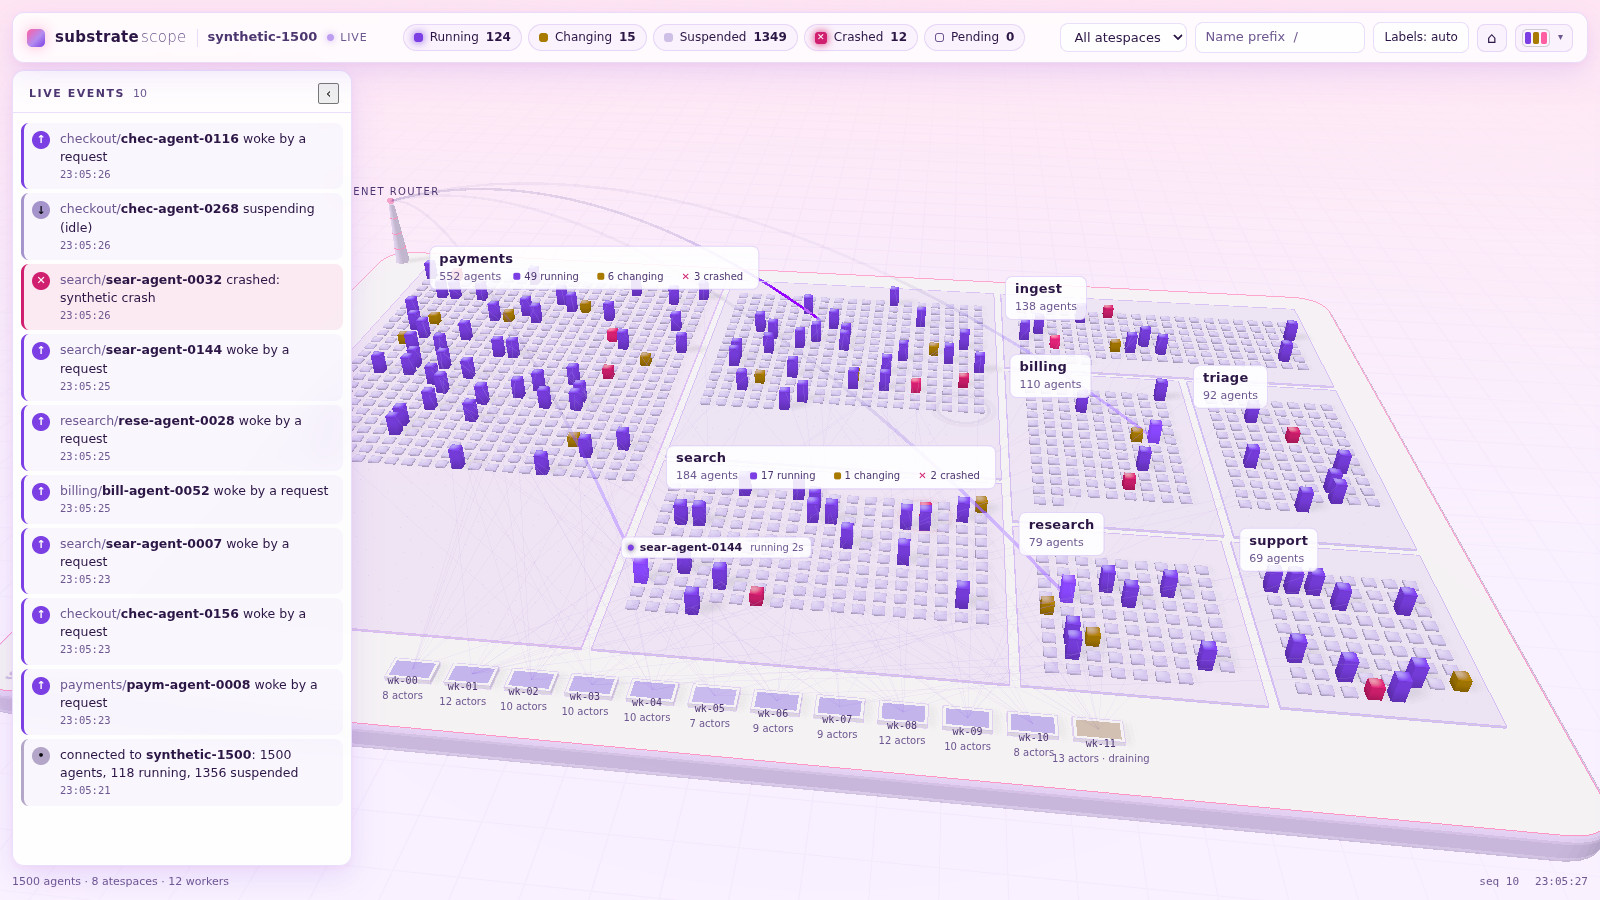
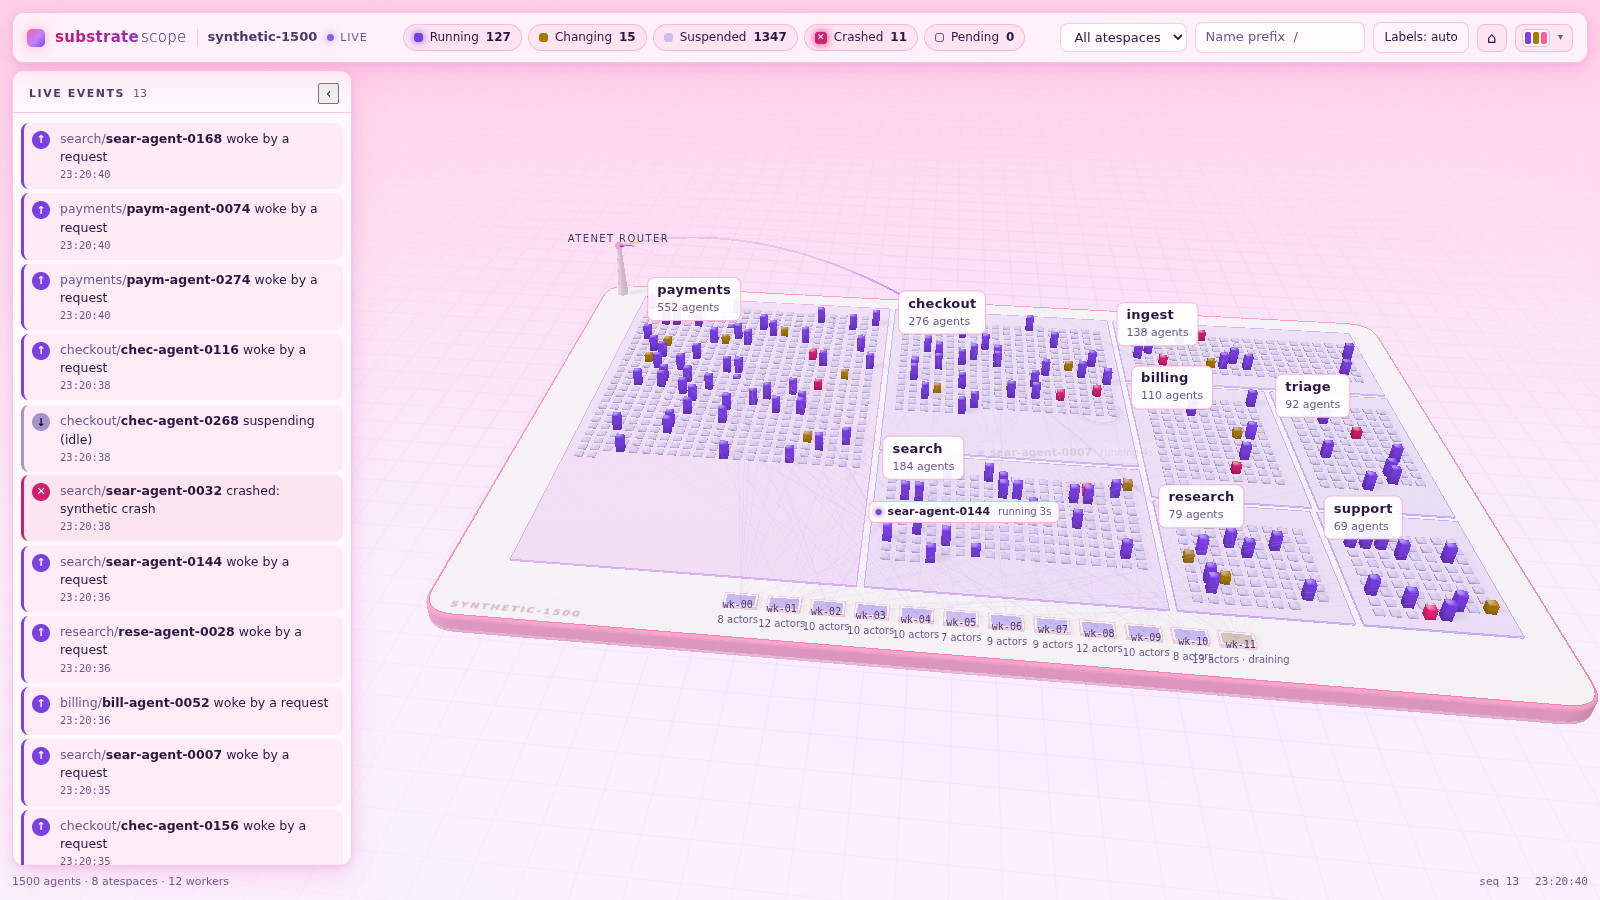
Add Google Light and Google Dark; quieter links; keep the router clear of the panel
Two themes from mast-web's Pantheon pair: Material greys for the chrome, the
validated Google state colors, and the Gemini Aurora only on the wordmark,
the brand mark, the island edge and the selection. Google Dark shows elevation
with lighter greys instead of shadows and keeps its glow subtle; Google Light
has no bloom. A new wordmark token lets a theme paint the title with a
gradient.

Worker link lines in the dark themes were bright and busy with a dozen
workers; they are now much fainter. Cotton Candy gets pinker surfaces and
chrome: a pink island edge and side, a stronger pink sky, pink buttons and
borders, and a gradient wordmark.

Fitting the camera now leaves room for the events panel: it pulls back to fit
the free width and shifts the island right, so the router tower and its label
are no longer hidden behind the panel.

diff --git a/web/js/themes.js b/web/js/themes.js
@@ -45,7 +45,7 @@ export const TOKENS = [
   'ui.primaryBg', 'ui.primaryBorder', 'ui.primaryText',
   'ui.warnBg', 'ui.warnBorder',
   'ui.labelBg', 'ui.labelBorder', 'ui.labelShadow', 'ui.selBorder',
-  'ui.codeBg', 'ui.shadow', 'ui.logo',
+  'ui.codeBg', 'ui.shadow', 'ui.logo', 'ui.wordmark',
   'ui.evAdded', 'ui.evWoke', 'ui.evSuspended', 'ui.evCrashed', 'ui.evTask', 'ui.evRemoved', 'ui.evWorker', 'ui.evMeta',
 ];
 
@@ -65,7 +65,7 @@ export const THEMES = [
     district: { fill: '#1c1033', fillJitter: 0.06, edge: '#b48cff', edgeAlpha: 0.55, dots: '#4f3a7d', label: '#f5ebff' },
     worker: { pad: '#2a1849', padEdge: '#c49cff', idle: '#3a2a5c', active: '#9a6cf2', draining: '#b09000' },
     router: { shaft: '#2a1748', emissive: '#1d0a36', band: '#ff7ac8', beacon: '#ffb3e6' },
-    links: { color: '#ff9ad6', alpha: 0.24 },
+    links: { color: '#c873b0', alpha: 0.1 },
     states: { running: '#9a6cf2', changing: '#b09000', suspended: '#4b3f6b', crashed: '#e8306b', pending: '#ab98d0' },
     effects: { wake: '#c9a6ff', suspend: '#8a78c0', crash: '#e8306b', beam: '#d7c2ff', removed: '#7f6fa6' },
     marker: { select: '#ffffff', hover: '#ffb3e6' },
@@ -87,6 +87,7 @@ export const THEMES = [
       warnBg: 'rgba(176, 144, 0, 0.14)', warnBorder: 'rgba(214, 180, 40, 0.55)',
       labelBg: 'rgba(20, 9, 38, 0.72)', labelBorder: 'rgba(200, 160, 255, 0.2)', labelShadow: '0 1px 3px #000', selBorder: '#ff7ac8',
       codeBg: 'rgba(255, 255, 255, 0.07)', shadow: '0 10px 40px rgba(0, 0, 0, 0.45), 0 0 0 1px rgba(255, 122, 200, 0.05)',
+      wordmark: 'linear-gradient(#f5ebff, #f5ebff)',
       logo: 'linear-gradient(135deg, #ff7ac8, #9a6cf2 60%, #5b3fd0)',
       evAdded: '#ff9ad6', evWoke: '#9a6cf2', evSuspended: '#8a7bb5', evCrashed: '#e8306b', evTask: '#b09000',
       evRemoved: '#6f6390', evWorker: '#c49cff', evMeta: '#7e6ca6',
@@ -104,7 +105,7 @@ export const THEMES = [
     district: { fill: '#0d1d35', fillJitter: 0.08, edge: '#3d9be0', edgeAlpha: 0.5, dots: '#21507d', label: '#e4f4ff' },
     worker: { pad: '#132a4a', padEdge: '#3fb2e8', idle: '#1b3558', active: '#0fa395', draining: '#8f7bff' },
     router: { shaft: '#14284a', emissive: '#08223a', band: '#2ee6d6', beacon: '#a6fff6' },
-    links: { color: '#2ee6d6', alpha: 0.22 },
+    links: { color: '#2bb8ad', alpha: 0.11 },
     states: { running: '#0fa395', changing: '#8f7bff', suspended: '#2c3e63', crashed: '#ec3d5a', pending: '#8ca3c4' },
     effects: { wake: '#5ff2e6', suspend: '#5f7fbf', crash: '#ec3d5a', beam: '#8ff7ee', removed: '#5d6c8c' },
     marker: { select: '#ffffff', hover: '#9ff7ef' },
@@ -126,6 +127,7 @@ export const THEMES = [
       warnBg: 'rgba(143, 123, 255, 0.12)', warnBorder: 'rgba(143, 123, 255, 0.5)',
       labelBg: 'rgba(5, 12, 24, 0.7)', labelBorder: 'rgba(110, 180, 235, 0.18)', labelShadow: '0 1px 3px #000', selBorder: '#2ee6d6',
       codeBg: 'rgba(255, 255, 255, 0.06)', shadow: '0 10px 40px rgba(0, 0, 0, 0.45)',
+      wordmark: 'linear-gradient(#e4f2ff, #e4f2ff)',
       logo: 'linear-gradient(135deg, #2ee6d6, #3d9be0 60%, #8f7bff)',
       evAdded: '#7fe8ff', evWoke: '#0fa395', evSuspended: '#6f86b8', evCrashed: '#ec3d5a', evTask: '#8f7bff',
       evRemoved: '#5d6c8c', evWorker: '#2ee6d6', evMeta: '#5f7399',
@@ -143,7 +145,7 @@ export const THEMES = [
     district: { fill: '#1d1d23', fillJitter: 0, edge: '#4a4a56', edgeAlpha: 0.9, dots: '#33333c', label: '#f5f5f7' },
     worker: { pad: '#1f1f25', padEdge: '#c6ff3d', idle: '#2a2a32', active: '#6aa61a', draining: '#2f95c8' },
     router: { shaft: '#222228', emissive: '#0c0c0f', band: '#c6ff3d', beacon: '#e6ffa8' },
-    links: { color: '#c6ff3d', alpha: 0.16 },
+    links: { color: '#6f9a1f', alpha: 0.07 },
     states: { running: '#6aa61a', changing: '#2f95c8', suspended: '#3a3a44', crashed: '#e83a8a', pending: '#9c9ca8' },
     effects: { wake: '#b6f25a', suspend: '#70707e', crash: '#e83a8a', beam: '#d8ff8a', removed: '#5a5a66' },
     marker: { select: '#ffffff', hover: '#e6ffa8' },
@@ -165,6 +167,7 @@ export const THEMES = [
       warnBg: 'rgba(47, 149, 200, 0.12)', warnBorder: 'rgba(47, 149, 200, 0.55)',
       labelBg: 'rgba(12, 12, 15, 0.82)', labelBorder: 'rgba(255, 255, 255, 0.14)', labelShadow: 'none', selBorder: '#c6ff3d',
       codeBg: 'rgba(255, 255, 255, 0.07)', shadow: '0 12px 40px rgba(0, 0, 0, 0.6)',
+      wordmark: 'linear-gradient(#f5f5f7, #f5f5f7)',
       logo: 'linear-gradient(135deg, #c6ff3d 50%, #0c0c0f 50%)',
       evAdded: '#c6ff3d', evWoke: '#6aa61a', evSuspended: '#7a7a88', evCrashed: '#e83a8a', evTask: '#2f95c8',
       evRemoved: '#5a5a66', evWorker: '#b6f25a', evMeta: '#6c6c78',
@@ -175,14 +178,14 @@ export const THEMES = [
     name: 'Cotton Candy',
     mode: 'light',
     scene: {
-      background: '#fbf4ff', backgroundTop: '#ffe6f3', fog: '#fbf4ff', fogDensity: 0.0035,
-      grid: '#c9a2ec', gridAlpha: 0.45, sea: '#f4e8ff', seaAlpha: 0.7, stars: null, starAlpha: 0,
+      background: '#fbf4ff', backgroundTop: '#ffcfe8', fog: '#fbf4ff', fogDensity: 0.0035,
+      grid: '#e08ac8', gridAlpha: 0.5, sea: '#f6e2ff', seaAlpha: 0.8, stars: null, starAlpha: 0,
     },
-    island: { fill: '#ffffff', side: '#ead9fb', edge: '#ff8cc0', edgeAlpha: 1, label: '#b896dc' },
-    district: { fill: '#f7effe', fillJitter: 0.05, edge: '#d4b6f2', edgeAlpha: 1, dots: '#dcc8f2', label: '#3a1f5e' },
-    worker: { pad: '#ffffff', padEdge: '#cfb0f0', idle: '#efe4fb', active: '#7b3fe4', draining: '#a87a00' },
-    router: { shaft: '#f1e5ff', emissive: '#000000', band: '#ff5fa2', beacon: '#ff8cc0' },
-    links: { color: '#a77ce6', alpha: 0.35 },
+    island: { fill: '#ffffff', side: '#ff9ccb', edge: '#ff5fa2', edgeAlpha: 1, label: '#d77fb8' },
+    district: { fill: '#f4e6ff', fillJitter: 0.1, edge: '#c79af5', edgeAlpha: 1, dots: '#dcbff5', label: '#3a1f5e' },
+    worker: { pad: '#ffffff', padEdge: '#ff8cc0', idle: '#fbe6f3', active: '#7b3fe4', draining: '#a87a00' },
+    router: { shaft: '#ffd6ea', emissive: '#000000', band: '#ff5fa2', beacon: '#ff5fa2' },
+    links: { color: '#b86ef0', alpha: 0.35 },
     states: { running: '#7b3fe4', changing: '#a87a00', suspended: '#cdbfe6', crashed: '#d11f6f', pending: '#6c5790' },
     effects: { wake: '#7b3fe4', suspend: '#a593cc', crash: '#d11f6f', beam: '#b38cf0', removed: '#b3a6c8' },
     marker: { select: '#2b1645', hover: '#ff5fa2' },
@@ -195,16 +198,17 @@ export const THEMES = [
       sun: '#fff6fb', sunIntensity: 1.5, shadow: true, shadowAlpha: 0.5,
     },
     ui: {
-      glass: 'rgba(255, 255, 255, 0.78)', glassStrong: 'rgba(255, 255, 255, 0.93)', line: 'rgba(123, 63, 228, 0.16)',
+      glass: 'rgba(255, 246, 251, 0.86)', glassStrong: 'rgba(255, 250, 253, 0.95)', line: 'rgba(255, 95, 162, 0.32)',
       text: '#2b1645', text2: '#4c3670', muted: '#6c5790',
-      accent: '#ff5fa2', accentText: '#3a0820', chipBg: 'rgba(123, 63, 228, 0.04)', chipHover: 'rgba(255, 95, 162, 0.12)',
+      accent: '#ff5fa2', accentText: '#3a0820', chipBg: 'rgba(255, 95, 162, 0.08)', chipHover: 'rgba(255, 95, 162, 0.18)',
       inputBg: 'rgba(255, 255, 255, 0.85)',
-      btnBg: 'rgba(123, 63, 228, 0.07)', btnBorder: 'rgba(123, 63, 228, 0.35)', btnText: '#3d1f73', btnHover: 'rgba(123, 63, 228, 0.14)',
+      btnBg: 'rgba(255, 95, 162, 0.12)', btnBorder: 'rgba(255, 95, 162, 0.65)', btnText: '#7a1048', btnHover: 'rgba(255, 95, 162, 0.22)',
       primaryBg: '#ff5fa2', primaryBorder: '#f04d92', primaryText: '#3a0820',
       warnBg: 'rgba(168, 122, 0, 0.1)', warnBorder: 'rgba(168, 122, 0, 0.45)',
-      labelBg: 'rgba(255, 255, 255, 0.88)', labelBorder: 'rgba(123, 63, 228, 0.2)', labelShadow: 'none', selBorder: '#ff5fa2',
-      codeBg: 'rgba(123, 63, 228, 0.08)', shadow: '0 10px 30px rgba(123, 63, 228, 0.14), 0 2px 6px rgba(255, 95, 162, 0.08)',
-      logo: 'linear-gradient(135deg, #ff5fa2, #b38cf0 55%, #7b3fe4)',
+      labelBg: 'rgba(255, 255, 255, 0.92)', labelBorder: 'rgba(255, 95, 162, 0.45)', labelShadow: 'none', selBorder: '#ff5fa2',
+      codeBg: 'rgba(123, 63, 228, 0.08)', shadow: '0 10px 30px rgba(255, 95, 162, 0.22), 0 2px 8px rgba(123, 63, 228, 0.14)',
+      wordmark: 'linear-gradient(90deg, #c2187a, #7b3fe4)',
+      logo: 'linear-gradient(135deg, #ff5fa2, #c084fc 55%, #7b3fe4)',
       evAdded: '#ff5fa2', evWoke: '#7b3fe4', evSuspended: '#a593cc', evCrashed: '#d11f6f', evTask: '#a87a00',
       evRemoved: '#b3a6c8', evWorker: '#9b6cf0', evMeta: '#b3a6c8',
     },
@@ -243,6 +247,7 @@ export const THEMES = [
       warnBg: 'rgba(58, 91, 217, 0.08)', warnBorder: 'rgba(58, 91, 217, 0.5)',
       labelBg: 'rgba(251, 248, 241, 0.92)', labelBorder: 'rgba(31, 29, 26, 0.35)', labelShadow: 'none', selBorder: '#ff48b0',
       codeBg: 'rgba(58, 91, 217, 0.08)', shadow: '4px 4px 0 rgba(255, 72, 176, 0.35)',
+      wordmark: 'linear-gradient(#1f1d1a, #1f1d1a)',
       logo: 'linear-gradient(135deg, #ff48b0 50%, #3a5bd9 50%)',
       evAdded: '#ff48b0', evWoke: '#009a93', evSuspended: '#a39a8a', evCrashed: '#e5392b', evTask: '#3a5bd9',
       evRemoved: '#b0a796', evWorker: '#009a93', evMeta: '#b0a796',
@@ -282,9 +287,92 @@ export const THEMES = [
       warnBg: 'rgba(154, 122, 0, 0.1)', warnBorder: 'rgba(154, 122, 0, 0.45)',
       labelBg: 'rgba(255, 255, 255, 0.9)', labelBorder: 'rgba(15, 35, 64, 0.16)', labelShadow: 'none', selBorder: '#7c3aed',
       codeBg: 'rgba(0, 98, 230, 0.07)', shadow: '0 10px 30px rgba(15, 35, 64, 0.12), 0 1px 3px rgba(15, 35, 64, 0.08)',
+      wordmark: 'linear-gradient(#0f2340, #0f2340)',
       logo: 'linear-gradient(135deg, #7fb0f0, #0062e6 55%, #7c3aed)',
       evAdded: '#7c3aed', evWoke: '#0062e6', evSuspended: '#8ea3c2', evCrashed: '#d11f6f', evTask: '#9a7a00',
       evRemoved: '#a6b4c8', evWorker: '#4a86e0', evMeta: '#a6b4c8',
+    },
+  },
+  {
+    id: 'google-light',
+    name: 'Google Light',
+    mode: 'light',
+    scene: {
+      background: '#f8f9fa', backgroundTop: '#ffffff', fog: '#f8f9fa', fogDensity: 0.0035,
+      grid: '#bdc1c6', gridAlpha: 0.55, sea: '#f1f3f4', seaAlpha: 0.8, stars: null, starAlpha: 0,
+    },
+    island: { fill: '#ffffff', side: '#dadce0', edge: '#a770ef', edgeAlpha: 0.6, label: '#9aa0a6' },
+    district: { fill: '#f1f3f4', fillJitter: 0, edge: '#dadce0', edgeAlpha: 1, dots: '#dadce0', label: '#202124' },
+    worker: { pad: '#ffffff', padEdge: '#bdc1c6', idle: '#f1f3f4', active: '#188038', draining: '#9334e6' },
+    router: { shaft: '#e8eaed', emissive: '#000000', band: '#217bfe', beacon: '#a770ef' },
+    links: { color: '#1a73e8', alpha: 0.2 },
+    states: { running: '#188038', changing: '#9334e6', suspended: '#bdc1c6', crashed: '#d93025', pending: '#5f6368' },
+    effects: { wake: '#188038', suspend: '#9aa0a6', crash: '#d93025', beam: '#1a73e8', removed: '#bdc1c6' },
+    marker: { select: '#217bfe', hover: '#a770ef' },
+    glow: { additive: false, emissive: 0.05, ambient: 0.7, diffuse: 0.32, hemi: 0.06, gloss: 0.06, ink: 0.18, occlusion: 0.18 },
+    bloom: { strength: 0, radius: 0.4, threshold: 0.95 },
+    light: {
+      toneMapping: 'none', exposure: 1.0,
+      ambient: '#ffffff', ambientIntensity: 0.6,
+      hemiSky: '#ffffff', hemiGround: '#e8eaed', hemiIntensity: 1.25,
+      sun: '#ffffff', sunIntensity: 1.4, shadow: true, shadowAlpha: 0.35,
+    },
+    // Google Material greys; the Gemini Aurora only on the brand and selection.
+    ui: {
+      glass: 'rgba(255, 255, 255, 0.95)', glassStrong: 'rgba(255, 255, 255, 0.98)', line: '#dadce0',
+      text: '#202124', text2: '#3c4043', muted: '#5f6368',
+      accent: '#1a73e8', accentText: '#ffffff', chipBg: 'rgba(32, 33, 36, 0.03)', chipHover: '#e8f0fe',
+      inputBg: '#ffffff',
+      btnBg: '#ffffff', btnBorder: '#dadce0', btnText: '#1967d2', btnHover: '#e8f0fe',
+      primaryBg: '#1a73e8', primaryBorder: '#1a73e8', primaryText: '#ffffff',
+      warnBg: 'rgba(147, 52, 230, 0.06)', warnBorder: '#d7aefb',
+      labelBg: 'rgba(255, 255, 255, 0.96)', labelBorder: '#dadce0', labelShadow: 'none', selBorder: '#a770ef',
+      codeBg: '#f1f3f4', shadow: '0 1px 2px rgba(60, 64, 67, 0.3), 0 2px 6px 2px rgba(60, 64, 67, 0.15)',
+      logo: 'linear-gradient(135deg, #217bfe 0%, #078efb 33%, #a770ef 66%, #ff5e62 100%)',
+      wordmark: 'linear-gradient(90deg, #217bfe 0%, #078efb 33%, #a770ef 66%, #ff5e62 100%)',
+      evAdded: '#1a73e8', evWoke: '#188038', evSuspended: '#9aa0a6', evCrashed: '#d93025', evTask: '#9334e6',
+      evRemoved: '#bdc1c6', evWorker: '#1e8e3e', evMeta: '#bdc1c6',
+    },
+  },
+  {
+    id: 'google-dark',
+    name: 'Google Dark',
+    mode: 'dark',
+    scene: {
+      background: '#202124', backgroundTop: '#141517', fog: '#202124', fogDensity: 0.005,
+      grid: '#5f6368', gridAlpha: 0.3, sea: '#202124', seaAlpha: 0.9, stars: null, starAlpha: 0,
+    },
+    // Elevation by lighter grey, not by shadow: canvas, then paler cards.
+    island: { fill: '#2a2b2e', side: '#1b1c1e', edge: '#a770ef', edgeAlpha: 0.55, label: '#5f6368' },
+    district: { fill: '#303134', fillJitter: 0, edge: '#3c4043', edgeAlpha: 1, dots: '#3c4043', label: '#e8eaed' },
+    worker: { pad: '#303134', padEdge: '#5f6368', idle: '#2a2b2e', active: '#34a853', draining: '#af5cf7' },
+    router: { shaft: '#3c4043', emissive: '#121212', band: '#8ab4f8', beacon: '#a770ef' },
+    links: { color: '#8ab4f8', alpha: 0.1 },
+    states: { running: '#34a853', changing: '#af5cf7', suspended: '#5f6368', crashed: '#e52592', pending: '#9aa0a6' },
+    effects: { wake: '#81c995', suspend: '#9aa0a6', crash: '#e52592', beam: '#8ab4f8', removed: '#5f6368' },
+    marker: { select: '#8ab4f8', hover: '#a770ef' },
+    glow: { additive: true, emissive: 0.5, ambient: 0.16, diffuse: 0.5, hemi: 0.22, gloss: 0, ink: 0, occlusion: 0.15 },
+    bloom: { strength: 0.3, radius: 0.3, threshold: 0.75 },
+    light: {
+      toneMapping: 'neutral', exposure: 1.0,
+      ambient: '#303134', ambientIntensity: 0.45,
+      hemiSky: '#e8eaed', hemiGround: '#202124', hemiIntensity: 0.9,
+      sun: '#ffffff', sunIntensity: 1.3, shadow: false, shadowAlpha: 0,
+    },
+    ui: {
+      glass: 'rgba(42, 43, 46, 0.96)', glassStrong: 'rgba(42, 43, 46, 0.98)', line: '#3c4043',
+      text: '#e8eaed', text2: '#bdc1c6', muted: '#9aa0a6',
+      accent: '#8ab4f8', accentText: '#202124', chipBg: '#303134', chipHover: '#3c4043',
+      inputBg: '#303134',
+      btnBg: '#303134', btnBorder: '#5f6368', btnText: '#8ab4f8', btnHover: '#3c4043',
+      primaryBg: '#8ab4f8', primaryBorder: '#8ab4f8', primaryText: '#202124',
+      warnBg: 'rgba(175, 92, 247, 0.12)', warnBorder: '#af5cf7',
+      labelBg: 'rgba(48, 49, 52, 0.95)', labelBorder: '#3c4043', labelShadow: 'none', selBorder: '#a770ef',
+      codeBg: '#303134', shadow: 'none',
+      logo: 'linear-gradient(135deg, #217bfe 0%, #078efb 33%, #a770ef 66%, #ff5e62 100%)',
+      wordmark: 'linear-gradient(90deg, #217bfe 0%, #078efb 33%, #a770ef 66%, #ff5e62 100%)',
+      evAdded: '#8ab4f8', evWoke: '#34a853', evSuspended: '#9aa0a6', evCrashed: '#e52592', evTask: '#af5cf7',
+      evRemoved: '#5f6368', evWorker: '#81c995', evMeta: '#5f6368',
     },
   },
 ];

diff --git a/web/js/scene.js b/web/js/scene.js
@@ -1145,11 +1145,26 @@ export class Scene {
 
   // --------------------------------------------------------------- camera
 
+  /** Pixels on the left covered by the events panel (the fit keeps clear of them). */
+  setLeftInset(px) {
+    this.leftInset = px;
+  }
+
   fitCamera() {
+    // Frame the island in the part of the view the events panel leaves
+    // free: pull back to fit the narrower width and shift the target left
+    // so the island (and the router tower on its left edge) clears the panel.
+    const W = this.renderer.domElement.clientWidth || window.innerWidth;
+    const inset = Math.min(this.leftInset || 0, W * 0.4);
     const span = Math.max(this.island.width, this.island.depth * 1.5);
-    const dist = Math.max(26, span * 0.95);
-    this.controls.target.set(this.island.cx, 0, this.island.cz + 0.5);
-    this.camera.position.set(this.island.cx + dist * 0.1, dist * 0.56, this.island.cz + dist * 0.84);
+    const dist = Math.max(26, span * 0.95) * (W / (W - inset));
+    const viewW = 2 * dist * Math.tan(THREE.MathUtils.degToRad(this.camera.fov / 2)) * this.camera.aspect;
+    const cx = this.island.cx - (inset / 2 / W) * viewW;
+    // Aim a little toward the front edge when pulled back, so the island
+    // uses the empty sky above it.
+    const cz = this.island.cz + 0.5 + (inset ? this.island.depth * 0.05 : 0);
+    this.controls.target.set(cx, 0, cz);
+    this.camera.position.set(cx + dist * 0.1, dist * 0.56, cz + dist * 0.84);
     this.controls.update();
   }
 

diff --git a/web/js/themes.test.js b/web/js/themes.test.js
@@ -22,7 +22,7 @@ function leaves(o, prefix = '') {
 }
 
 test('every theme defines every token, and nothing else', () => {
-  assert.equal(THEMES.length, 6);
+  assert.equal(THEMES.length, 8);
   for (const t of THEMES) {
     for (const path of TOKENS) {
       const v = token(t, path);
@@ -51,6 +51,8 @@ const VALIDATED = {
   'cotton-candy': ['#fbf4ff', '#7b3fe4', '#a87a00', '#d11f6f', '#cdbfe6', '#ff5fa2'],
   'riso-paper': ['#f6f1e7', '#009a93', '#3a5bd9', '#e5392b', '#c9c0b0', '#ff48b0'],
   glacier: ['#eef4fb', '#0062e6', '#9a7a00', '#d11f6f', '#b7c6da', '#7c3aed'],
+  'google-light': ['#f8f9fa', '#188038', '#9334e6', '#d93025', '#bdc1c6', '#1a73e8'],
+  'google-dark': ['#202124', '#34a853', '#af5cf7', '#e52592', '#5f6368', '#8ab4f8'],
 };
 
 test('state colors are the validated palettes', () => {

diff --git a/web/js/main.js b/web/js/main.js
@@ -240,6 +240,14 @@ function setFeedCollapsed(on) {
   }
   if (!on) feedUnread = 0;
   updateFeedCounts();
+  scene.setLeftInset(feedInset());
+}
+
+/** Width the open events panel covers, for framing the island beside it. */
+function feedInset() {
+  if (feedCollapsed()) return 0;
+  const r = $('#feedpanel').getBoundingClientRect();
+  return r.right + 12;
 }
 
 function updateFeedCounts() {
@@ -272,6 +280,7 @@ function feed(item) {
   updateFeedCounts();
 }
 
+scene.setLeftInset(feedInset());
 $('#feed-collapse').addEventListener('click', () => setFeedCollapsed(true));
 $('#feed-tab').addEventListener('click', () => setFeedCollapsed(false));
 try {

diff --git a/web/style.css b/web/style.css
@@ -142,6 +142,11 @@ body {
   font-weight: 700;
   font-size: 15px;
   letter-spacing: 0.02em;
+  /* The wordmark: a brand gradient in some themes, the text color in others. */
+  background: var(--wordmark);
+  -webkit-background-clip: text;
+  background-clip: text;
+  color: transparent;
 }
 
 .title .thin {

diff --git a/README.md b/README.md
@@ -18,7 +18,7 @@ Rendered with three.js and GPU instancing so a cluster with thousands of agents 
 - **Live events** sit in a panel on the left (newest on top, colored by kind; click one to fly to its agent). `e` or the ‹ button collapses it to a tab; the choice is remembered.
 - **Labels** stay quiet: only the selected agent, agents that just changed state (for a few seconds) and, when you zoom in close, the agents around you. Hover an agent for a tooltip. The **Labels** button (or `l`) switches between auto, all and off.
 - **Filters** (atespace, state chips, name prefix) dim everything that doesn't match. `/` focuses the search, Enter flies to the first match, `h` shows the whole island, Esc closes the panel. `?synthetic=5000` replaces the collector with 5,000 generated agents, for looking at the scene at scale.
-- **Themes**: six themes (three dark, three light) from the picker at the right of the header, or `?theme=<id>` (`orchid-night`, `abyss-neon`, `volt-noir`, `cotton-candy`, `riso-paper`, `glacier`). The choice is remembered; `?tour=1` cycles through them every 8 seconds. Every color, light and glow value lives in `web/js/themes.js`.
+- **Themes**: eight themes (four dark, four light) from the picker at the right of the header, or `?theme=<id>` (`orchid-night`, `abyss-neon`, `volt-noir`, `cotton-candy`, `riso-paper`, `glacier`, `google-light`, `google-dark`). The choice is remembered; `?tour=1` cycles through them every 8 seconds. Every color, light and glow value lives in `web/js/themes.js`.
 
 | A request wakes a suspended agent | The side panel: ax reasons and live idle time | A lookout incident in mast-web, opened from the panel |
 |---|---|---|
